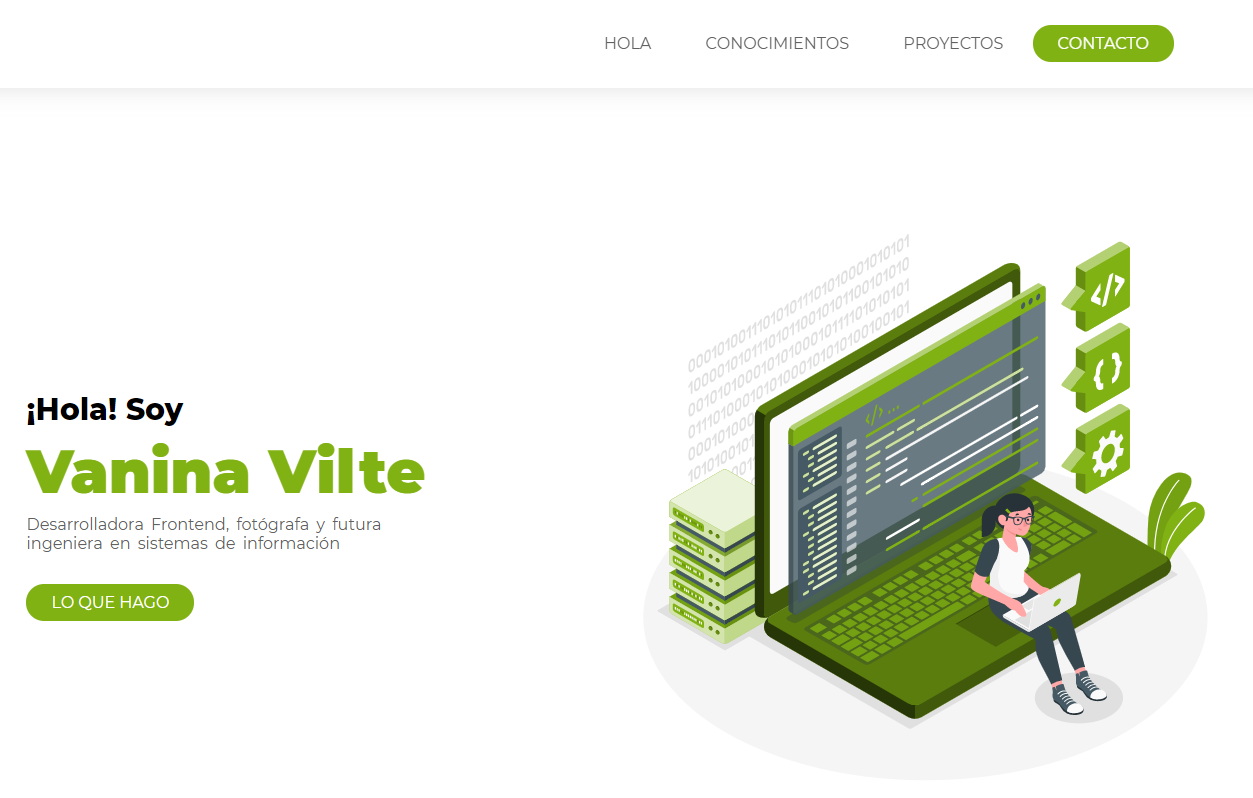
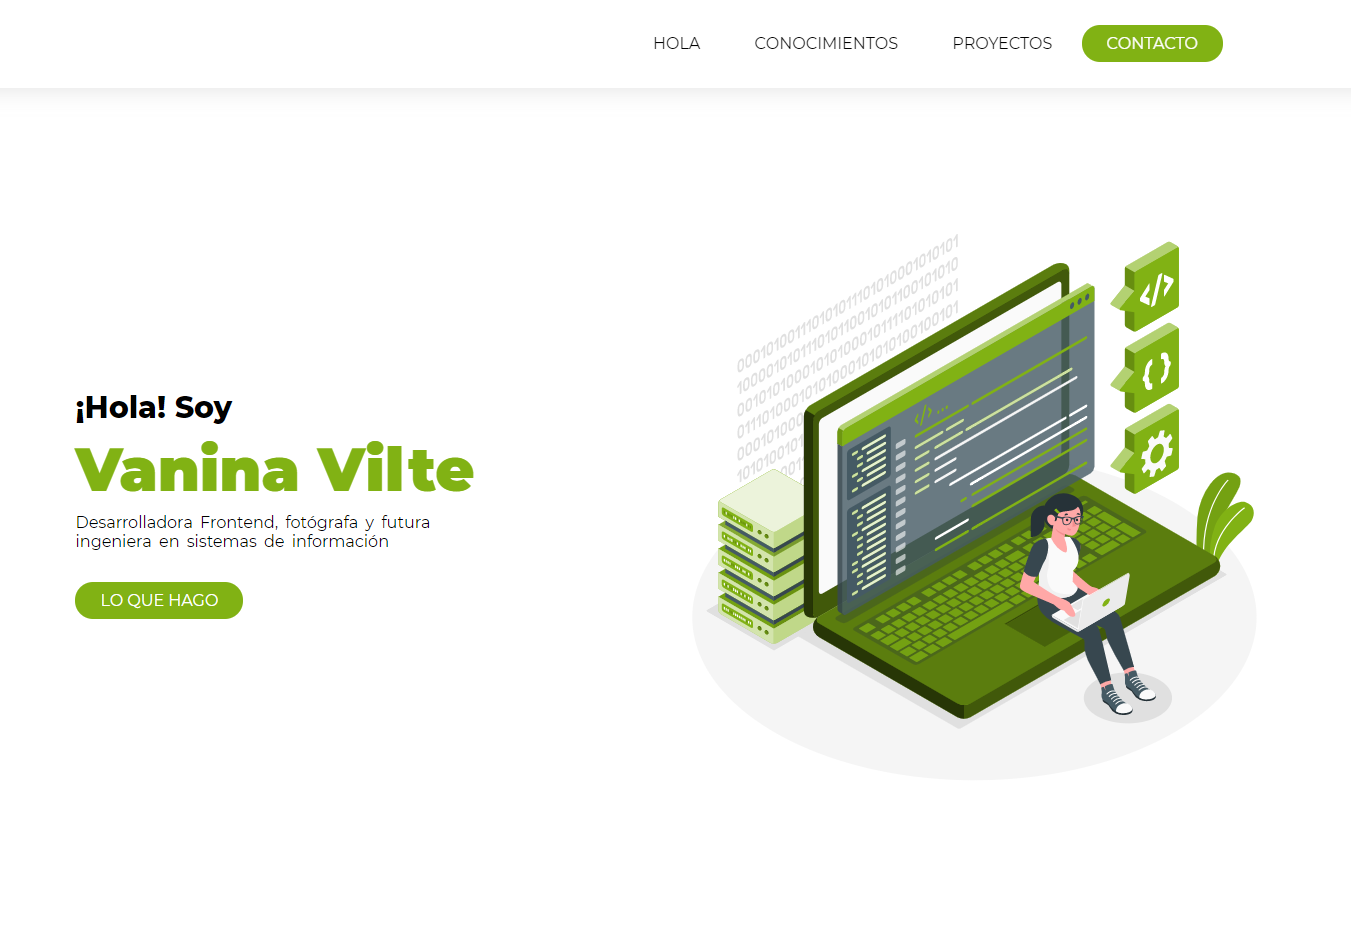
terminé proyectos, modifiqué el hover y comencé el formulario

diff --git a/index.html b/index.html
@@ -18,7 +18,7 @@
                 <ul>
                     <li><a href="#presentacion" class="naveg">hola</a></li>
                     <li><a href="#loquese" class="naveg">conocimientos</a></li>
-                    <li><a href="#" class="naveg">proyectos</a></li>
+                    <li><a href="#proyectos" class="naveg">proyectos</a></li>
                     <li><a href="#" class="naveg contacto">contacto</a></li>
                 </ul>
             </nav>
@@ -97,43 +97,48 @@
             <!------------------ TERMINA FRASE ------------------>
             <!------------------ EMPIEZA PROYECTOS ------------------>
             <section id="proyectos">
-                <h2 class="skills">Mis proyectos</h2>
-                <p class="skills2">Lorem, ipsum dolor sit amet consectetur adipisicing elit. Est dolorum maiores maxime eos aliquam provident quae iste ipsum hic magni, molestias obcaecati aperiam, voluptatem facere cupiditate aliquid repellendus laudantium excepturi?</p>
-                <div class="fotosproy">
-                   <a href="#" class="proy">
-                       <img src="images/portfolio.PNG" alt="portfolio">
-                       <p>Portafolio</p>
-                   </a>
-                   <a href="#"class="proy">
-                    <img src="images/memes.svg">
-                    <p>Generador de memes</p>
-                   </a>
-                   <a href="#" class="proy" >
-                    <img src="images/match.svg">
-                    <p>Match 3</p> 
-                   </a>
-                   <a href="#" class="proy">
-                    <img src="images/gastos.svg">
-                    <p>Controlador de gastos</p>
-                   </a>
-                   <a href="#" class="proy">
-                    <img src="images/reuniones.svg">
-                    <p>Administrador <br> de reuniones</p>
-                   </a>
-                   <a href="#" class="proy">
-                    <img src="images/app.svg">
-                      <p>Todo app</p>
-                   </a>
-                   <a href="#" class="proy">
-                    <img src="images/peliculas.svg">
-                    <p>Buscador de peliculas</p> 
-                   </a> 
-                </div>
+                <div class="proyect1">
+                    <h2 class="skills">Mis proyectos</h2>
+                    <p class="skills3">Lorem, ipsum dolor sit amet consectetur adipisicing elit. Est dolorum maiores maxime eos aliquam provident quae iste ipsum hic magni, molestias obcaecati aperiam, voluptatem facere cupiditate aliquid repellendus laudantium excepturi?</p>
+                    <div class="fotosproy">
+                        <a href="#presentacion" class="proy">
+                            <img src="images/portfolio.PNG" alt="portfolio" class="port">
+                            <p id="porta">Portafolio</p>
+                        </a>
+                        <a href="#"class="proy">
+                            <img src="images/memes.svg">
+                            <p>Generador de memes</p>
+                        </a>
+                        <a href="#" class="proy" >
+                            <img src="images/match.svg">
+                            <p>Match 3</p> 
+                        </a>
+                        <a href="#" class="proy">
+                            <img src="images/gastos.svg">
+                            <p>Controlador de gastos</p>
+                        </a>
+                        <a href="#" class="proy">
+                            <img src="images/reuniones.svg">
+                            <p>Administrador <br> de reuniones</p>
+                        </a>
+                        <a href="#" class="proy">
+                            <img src="images/app.svg">
+                            <p>Todo app</p>
+                        </a>
+                        <a href="#" class="proy">
+                            <img src="images/peliculas.svg">
+                            <p>Buscador de peliculas</p> 
+                        </a> 
+                    </div>
+                </div>        
            </section>
            <!------------------ TERMINA PROYECTOS ------------------>
+           <!------------------ EMPIEZA CONTACTAME ------------------>
             <section class="contactame">
                 <p>formulario</p>
             </section>
+
+            <!------------------ TERMINA CONTACTAME ------------------>
         <footer>
             <p>pie de pagina</p>
         </footer>

diff --git a/css/style.css b/css/style.css
@@ -10,7 +10,7 @@ body {
     flex-direction: column;
     font-family: 'Montserrat', sans-serif;
     text-align: center;
-    color: #616161;
+    color: black;
     font-size: 16px;
 }
 
@@ -46,7 +46,7 @@ li{
     text-transform: uppercase;
     text-decoration: none;
     padding: 25px;
-    color: #616161;
+    color: black;
 }
 
 .contacto{
@@ -62,11 +62,15 @@ li{
 
 .contacto:hover{
     background-color: #acd650;
-    color: #616161;
+    color: black;
 }
 
 /***************** TERMINA MI HEADER *****************/
 /***************** EMPIEZA HOLA *****************/
+#presentacion{
+    background-color: #FFFFFF;
+}
+
 .presentacion1{
     width: 80%;
     margin: 150px auto;
@@ -74,6 +78,7 @@ li{
     justify-content: center;
     align-items: center;
     align-content: center;
+    background-color: #FFFFFF;
 }
 
 #caja1, #caja2{
@@ -87,9 +92,9 @@ li{
 
 .hola{
     font-size: 30px;
-    color: black;
     margin-bottom: 7px;
     font-weight: 800;
+    color: black;
 }
 
 .nombre{
@@ -103,13 +108,14 @@ li{
     font-size: 16px;
     margin-bottom: 40px;
     word-spacing: 3px;
+    color: black;
 }
 
 /***************** TERMINA HOLA *****************/
 /***************** EMPIEZA MIS CONOCIMIENTOS *****************/
 #loquese{
     width: 100%;
-    background-color: #F6F7FB;
+    background-color: #1B1B1B;
 }
 
 .conocimientos{
@@ -119,19 +125,22 @@ li{
 }
 
 .skills{
+    margin-top: 30px;
     font-size: 45px;
     font-weight: 900;
-    color: black;
+    text-align: center;
+    color: #81B214;
 }
 
 .skills2{
     width: 650px;
     max-width: 65%;
     margin: 35px auto;
+    color: white;
 }
 
 #tecnologias{
-    max-width: 55%;
+    max-width: 60%;
     margin: 4% auto;
     display: flex;
     justify-content: space-evenly;
@@ -140,23 +149,23 @@ li{
 }
 
 .tech{
-    width: 250px;
-    height: 230px;
+    width: 230px;
+    height: 210px;
     padding: 2%;
     margin-top: 3%;
     display: flex;
     flex-direction: column;
     align-items: center;
     justify-content: center;
-    background-color: #FFFFFF;
-    color: black;
-    border: solid 1px #d8d8d8;
+    background-color: #242424;
+    color: #FFFFFF;
+    border: solid 1px #2e2e2e;
     border-radius: 3%;
 }
 
 .tecno{
-    width: 75px;
-    height: 75px;
+    width: 73px;
+    height: 73px;
 }
 
 .tecsvg{
@@ -166,9 +175,8 @@ li{
 }
 
 .tech:hover{
-    border: solid 2px #F58634;
-    background-color: #FFFFFF;
-    color: #F58634;
+    border: solid 2px #acd650;
+    color: #81B214;
 }
 
 /***************** TERMINA MIS CONOCIMIENTOS *****************/
@@ -210,12 +218,19 @@ li{
     width: 100%;
     display: flex;
     flex-direction: column;
-    margin: 100px 0px;
+    margin: 85px 0px;
+    background-color: #FFFFFF;
+}
+
+.proyect1{
+    width: 100%;
+    margin: 0px auto;
+    padding: 6em 0em;
     background-color: #FFFFFF;
 }
 
 .fotosproy{
-    max-width: 45%;
+    width: 45%;
     display: flex;
     flex-wrap: wrap;
     justify-content: space-between;
@@ -236,14 +251,39 @@ li{
     padding: 2%;
     margin-top: 3%;
     text-decoration: none;
-    border: solid 1px #616161;
+    color: black;
+    border: solid 1px #dadada;
     border-radius: 3%;
 }
 
-/***************** EMPIEZA PROYECTOS *****************/
+#porta{
+    width: 100%;
+    padding: 25px 0px 0px 0px;
+}
+
+.port{
+    width: 100%;
+    padding-top: 50px;
+}
+
+.skills3{
+    width: 650px;
+    max-width: 65%;
+    margin: 35px auto;
+    color: black;
+}
+
+.proy:hover{
+    border: solid 2px #acd650;
+    color: #658b11;
+}
+/***************** TERMINA PROYECTOS *****************/
+/***************** EMPIEZA CONTACTAME *****************/
 .contactame{
     background-color: darkgray;
 }
+
+/***************** TERMINA CONTACTAME *****************/
 
 footer{
     background-color: darksalmon;
